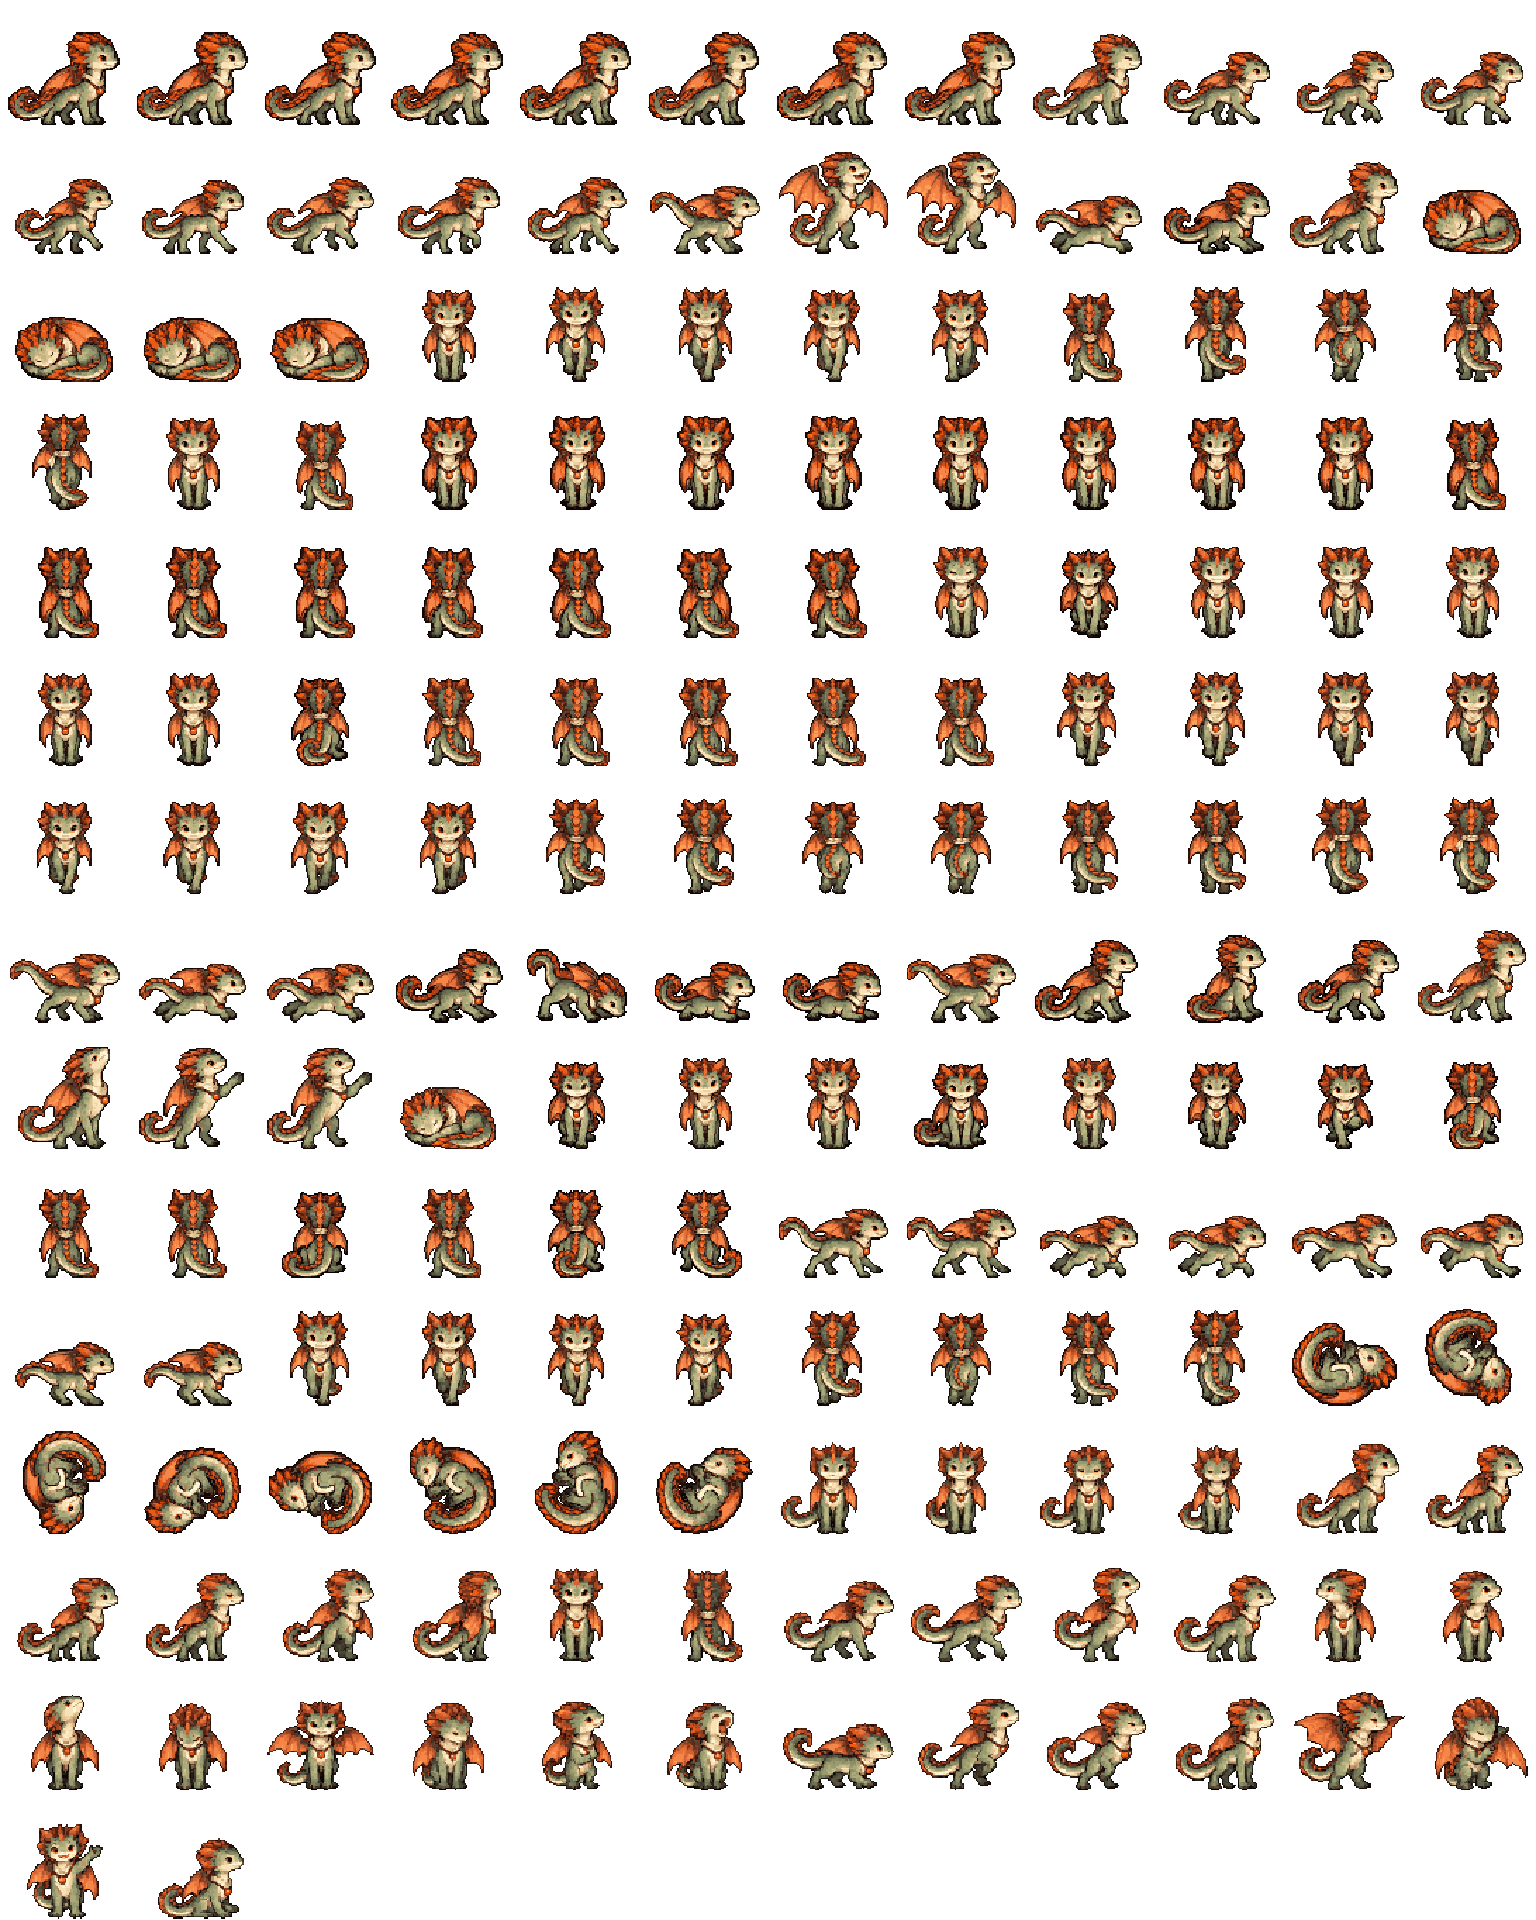
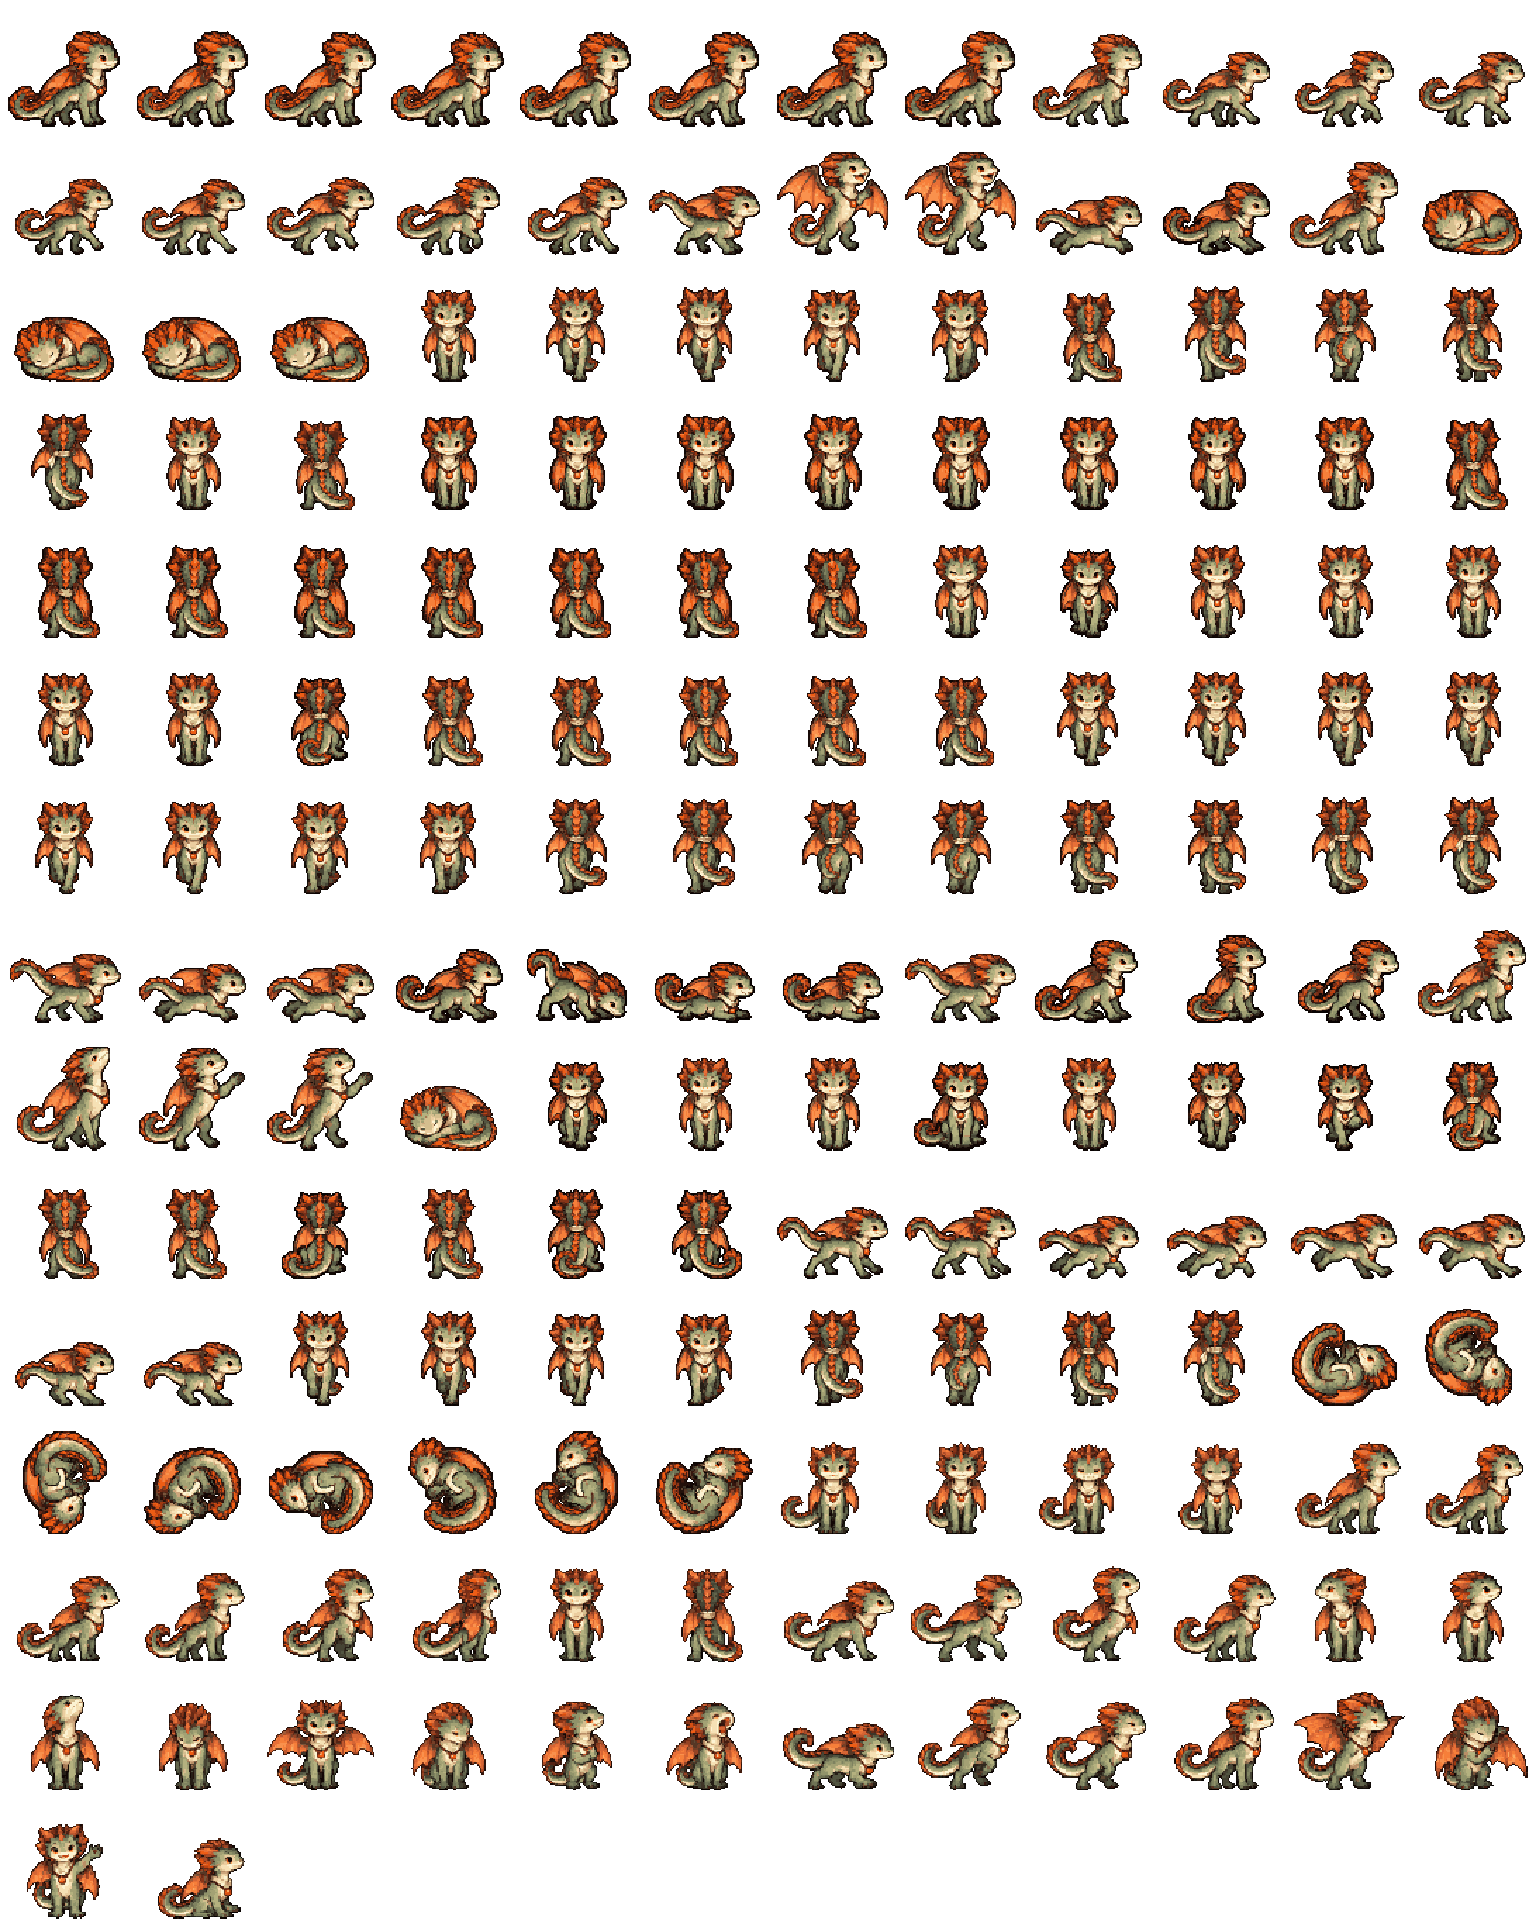
Pixelfassung: duenne Spitzen erhalten (Silhouettenpruefung motion_regions)
Ohren-, Fluegel- und Blattspitzen fielen bei 28 von 1088 Posen weg. Ein Pixel zaehlt
jetzt ab 20 % deckender Flaeche. motion_regions lokal: 1088 Checks, 0 Fehler.
Laufzeitmanifest v0156 aktualisiert.

Claude-Session: https://claude.ai/code/session_01TdNgszGJJhJgY79BPTc1AC

diff --git a/tools/pixel-pass/pixel_pass.py b/tools/pixel-pass/pixel_pass.py
@@ -33,7 +33,11 @@ def downscale(rgba, w, h):
     col = pm / np.maximum(aa[..., None], 1e-4)
     blur = cv2.GaussianBlur(col, (0, 0), 0.8)
     col = np.clip(col + 0.5 * (col - blur), 0, 1)
-    return (col * 255).astype(np.uint8), aa > 0.5
+    # Duenne Spitzen (Ohren, Fluegel, Blaetter) erhalten: ein Pixel zaehlt, sobald
+    # gut ein Fuenftel seiner Flaeche deckend gemalt ist. So bleibt die Kontur so weit
+    # wie im Original (Silhouetten-/Spiegelpruefung motion_regions).
+    cover = cv2.resize((rgba[..., 3] > 40).astype(np.float32), (w, h), interpolation=cv2.INTER_AREA)
+    return (col * 255).astype(np.uint8), cover > 0.2
 
 
 def clean(idx, cen):
